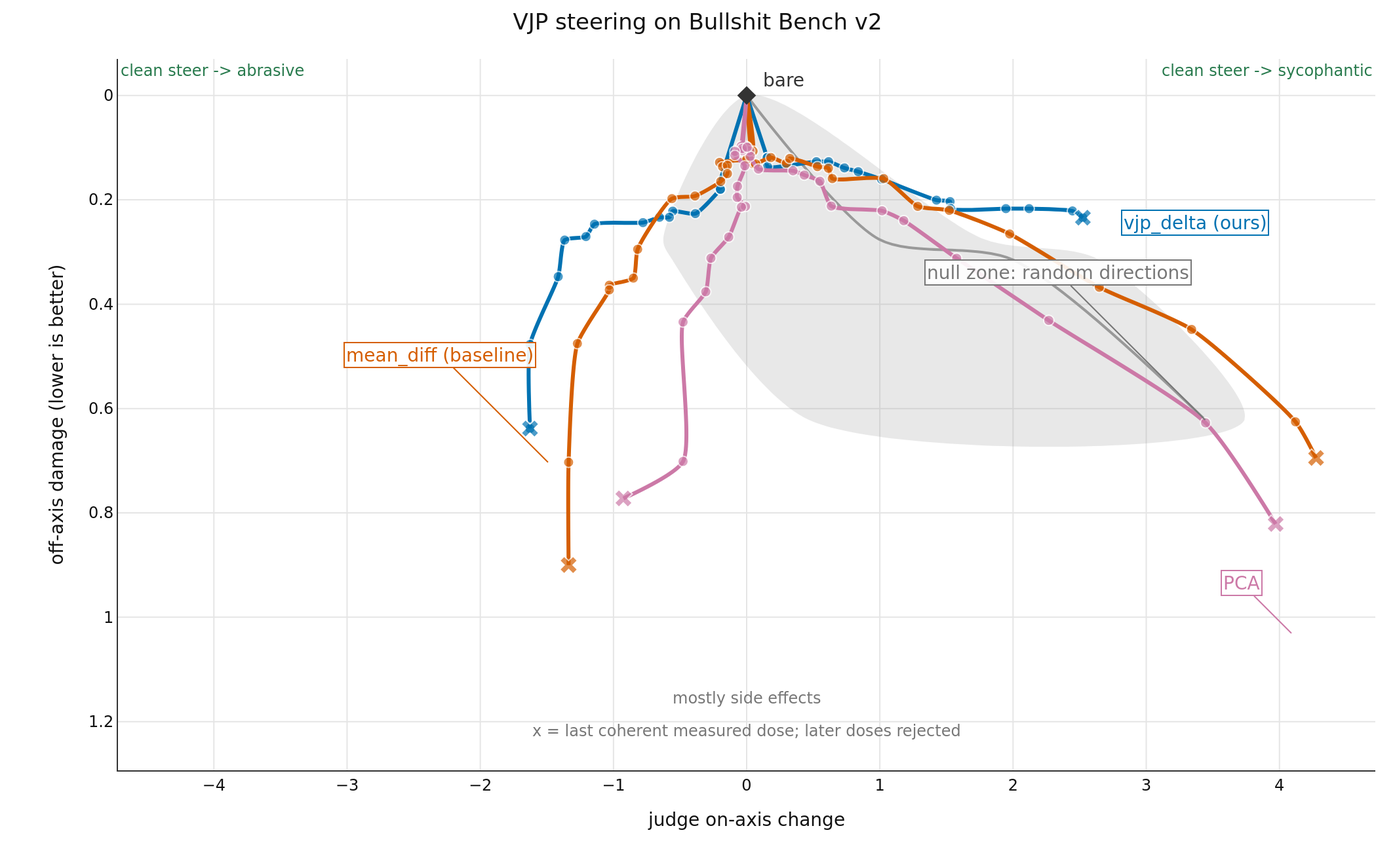
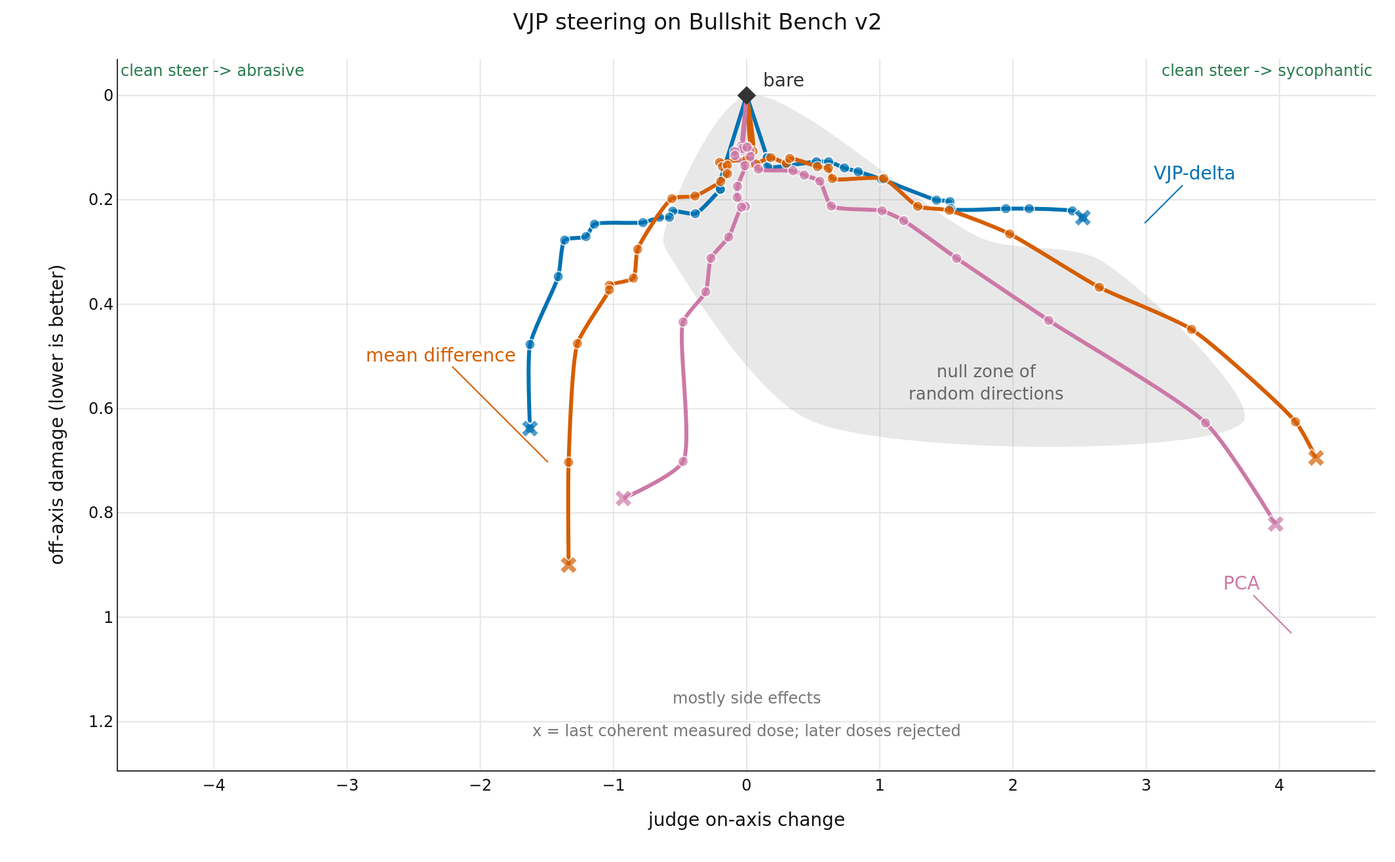
results: label the random null zone directly

diff --git a/results.html b/results.html
@@ -1,2 +1,2 @@
 <!doctype html><meta charset='utf-8'><title>vjp-steering results</title><style>body{font:16px system-ui;max-width:900px;margin:2rem auto}table{border-collapse:collapse}th,td{padding:.35rem .7rem;border-bottom:1px solid #ccc}th{text-align:left}img{max-width:100%}</style><h1>Results</h1><p>All rows use the same all-100 evaluation cohort. Named-method points are means over three seeds. The figure shows both steering directions. The random cone shows ten vectors until fewer than half have two coherent arms. The table reports rejected arms.</p><div style="height:658px; width:1064px;">                        <script>window.PlotlyConfig = {MathJaxConfig: 'local'};</script>
-        <script charset="utf-8" src="https://cdn.plot.ly/plotly-3.7.0.min.js" integrity="sha256-jvTGqxNp8AGWEcvNLVuKr+8j5dGe9Yw51LQkmDH+IYA=" crossorigin="anonymous"></script>                <div id="324a76bb-794a-489f-af0a-ff53a93f7f07" class="plotly-graph-div" style="height:100%; width:100%;"></div>            <script>                window.PLOTLYENV=window.PLOTLYENV || {};                                if (document.getElementById("324a76bb-794a-489f-af0a-ff53a93f7f07")) {                    Plotly.newPlot(                        "324a76bb-794a-489f-af0a-ff53a93f7f07",                        [{"fill":"toself","fillcolor":"rgba(150,150,150,0.22)","hoverinfo":"skip","line":{"color":"rgba(150,150,150,0)","shape":"spline","smoothing":0.8,"width":0},"showlegend":false,"x":[0.0,-0.62575,-0.558,0.46725,3.73775,2.65025,1.7845,0.0],"y":[0.0,0.2755,0.315,0.621625,0.621625,0.315,0.2755,0.0],"type":"scatter"},{"hoverinfo":"skip","line":{"color":"#999999","shape":"spline","smoothing":0.8,"width":2},"mode":"lines","showlegend":false,"x":[0.0,0.0,0.9933749999999999,1.999,3.44175],"y":[0.0,0.0,0.2755,0.315,0.621625],"type":"scatter"},{"hovertemplate":"vjp_delta (ours)\u003cbr\u003e%{text}\u003cbr\u003eeffect=%{x:.3f}\u003cbr\u003edamage=%{y:.3f}\u003cextra\u003e\u003c\u002fextra\u003e","line":{"color":"#0072b2","shape":"spline","smoothing":0.6,"width":3},"marker":{"color":"#0072b2","size":[0,8,8,8,8,8,8,8,8,8,8,8,8,8,8,8,12],"symbol":["circle","circle","circle","circle","circle","circle","circle","circle","circle","circle","circle","circle","circle","circle","circle","circle","x"]},"mode":"lines+markers","showlegend":false,"text":["bare","C=0.03125","C=0.0350769","C=0.0393725","C=0.0496063","C=0.0556812","C=0.0625","C=0.0701539","C=0.0787451","C=0.0992126","C=0.111362","C=0.125","C=0.140308","C=0.15749","C=0.198425","C=0.222725","C=0.25"],"x":[0,0.15408333333333332,0.15408333333333332,0.15683333333333332,0.523505,0.61525,0.734195,0.8376666666666667,1.01255,1.42525,1.5273333333333334,1.5313916666666667,1.9463333333333332,2.120833333333333,2.446108333333333,2.52425,2.52425],"y":[0,0.11908333333333333,0.11908333333333333,0.13625,0.12689166666666668,0.12689166666666668,0.138825,0.14605833333333335,0.16058333333333333,0.20058333333333334,0.20333333333333334,0.21683333333333332,0.21683333333333332,0.21683333333333332,0.22125,0.23416666666666666,0.23416666666666666],"type":"scatter"},{"hovertemplate":"vjp_delta (ours)\u003cbr\u003e%{text}\u003cbr\u003eeffect=%{x:.3f}\u003cbr\u003edamage=%{y:.3f}\u003cextra\u003e\u003c\u002fextra\u003e","line":{"color":"#0072b2","shape":"spline","smoothing":0.6,"width":3},"marker":{"color":"#0072b2","size":[0,8,8,8,8,8,8,8,8,8,8,8,8,8,8,8,12],"symbol":["circle","circle","circle","circle","circle","circle","circle","circle","circle","circle","circle","circle","circle","circle","circle","circle","x"]},"mode":"lines+markers","showlegend":false,"text":["bare","C=0.03125","C=0.0350769","C=0.0393725","C=0.0441942","C=0.0556812","C=0.0625","C=0.0701539","C=0.0787451","C=0.0883883","C=0.0992126","C=0.111362","C=0.125","C=0.15749","C=0.176777","C=0.198425","C=0.222725"],"x":[0,-0.21149999999999997,-0.21149999999999997,-0.19706166666666666,-0.19706166666666666,-0.38541666666666663,-0.5555,-0.5802475,-0.6541825,-0.7786916666666667,-1.1425916666666667,-1.2064459166666666,-1.3664367499999999,-1.4146759258333332,-1.6265833333333333,-1.6265833333333333,-1.6265833333333333],"y":[0,0.17399916666666668,0.17399916666666668,0.17980000000000002,0.17980000000000002,0.22644166666666665,0.22171083333333333,0.2334416666666667,0.2334416666666667,0.24366666666666667,0.24663333333333334,0.270425,0.27708333333333335,0.3471666666666667,0.4771666666666667,0.63825,0.63825],"type":"scatter"},{"hovertemplate":"mean_diff (baseline)\u003cbr\u003e%{text}\u003cbr\u003eeffect=%{x:.3f}\u003cbr\u003edamage=%{y:.3f}\u003cextra\u003e\u003c\u002fextra\u003e","line":{"color":"#d55e00","shape":"spline","smoothing":0.6,"width":3},"marker":{"color":"#d55e00","size":[0,8,8,8,8,8,8,8,8,8,8,8,8,8,8,8,12],"symbol":["circle","circle","circle","circle","circle","circle","circle","circle","circle","circle","circle","circle","circle","circle","circle","circle","x"]},"mode":"lines+markers","showlegend":false,"text":["bare","C=0.03125","C=0.0393725","C=0.0496063","C=0.0625","C=0.0787451","C=0.0992126","C=0.125","C=0.15749","C=0.198425","C=0.25","C=0.31498","C=0.39685","C=0.5","C=0.629961","C=0.793701","C=1"],"x":[0,0.04861,0.06719373583333334,0.18175,0.29885999999999996,0.3235,0.5315,0.61375,0.643,1.0288416666666667,1.2845833333333334,1.5210833333333333,1.9748333333333332,2.6473333333333335,3.3405,4.120416666666666,4.27475],"y":[0,0.131,0.131,0.119,0.12999166666666667,0.120625,0.13633333333333333,0.1395,0.15925,0.15925,0.21252916666666666,0.22025,0.26541666666666663,0.3675833333333333,0.44833333333333336,0.6254166666666666,0.6946666666666667],"type":"scatter"},{"hovertemplate":"mean_diff (baseline)\u003cbr\u003e%{text}\u003cbr\u003eeffect=%{x:.3f}\u003cbr\u003edamage=%{y:.3f}\u003cextra\u003e\u003c\u002fextra\u003e","line":{"color":"#d55e00","shape":"spline","smoothing":0.6,"width":3},"marker":{"color":"#d55e00","size":[0,8,8,8,8,8,8,8,8,8,8,8,8,8,8,8,12],"symbol":["circle","circle","circle","circle","circle","circle","circle","circle","circle","circle","circle","circle","circle","circle","circle","circle","x"]},"mode":"lines+markers","showlegend":false,"text":["bare","C=0.03125","C=0.0393725","C=0.0496063","C=0.0625","C=0.0701539","C=0.0883883","C=0.111362","C=0.140308","C=0.176777","C=0.222725","C=0.280616","C=0.353553","C=0.39685","C=0.5","C=0.629961","C=0.793701"],"x":[0,0.04816666666666667,0.001833333333333328,-0.20354166666666668,-0.180925,-0.14454166666666668,-0.14454166666666668,-0.1947475,-0.38816416666666664,-0.5611666666666667,-0.8184166666666667,-0.8505,-1.0310833333333334,-1.0310833333333334,-1.2709166666666667,-1.3367499999999999,-1.3367499999999999],"y":[0,0.10666666666666667,0.12155,0.12821041666666666,0.1366666666666667,0.13399166666666668,0.14983333333333332,0.16475,0.19266666666666665,0.197675,0.29478333333333334,0.3500416666666667,0.36362500000000003,0.3726666666666667,0.4755,0.7029166666666666,0.9],"type":"scatter"},{"hovertemplate":"PCA\u003cbr\u003e%{text}\u003cbr\u003eeffect=%{x:.3f}\u003cbr\u003edamage=%{y:.3f}\u003cextra\u003e\u003c\u002fextra\u003e","line":{"color":"#cc79a7","shape":"spline","smoothing":0.6,"width":3},"marker":{"color":"#cc79a7","size":[0,8,8,8,8,8,8,8,8,8,8,8,8,8,8,8,12],"symbol":["circle","circle","circle","circle","circle","circle","circle","circle","circle","circle","circle","circle","circle","circle","circle","circle","x"]},"mode":"lines+markers","showlegend":false,"text":["bare","C=0.03125","C=0.0393725","C=0.0496063","C=0.0625","C=0.0787451","C=0.0992126","C=0.125","C=0.15749","C=0.222725","C=0.280616","C=0.353553","C=0.445449","C=0.561231","C=0.707107","C=0.890899","C=1.12246"],"x":[0,-0.04175,-0.04175,-0.006111666666666677,0.022609999999999984,0.02697166666666666,0.08833333333333332,0.34808333333333336,0.4325833333333334,0.55,0.6351666666666667,1.01675,1.1796083333333334,1.5768333333333333,2.268333333333333,3.4454166666666666,3.97175],"y":[0,0.10181704333333333,0.09730075333333334,0.09730075333333334,0.106125,0.11654166666666667,0.141,0.14433333333333334,0.15258333333333335,0.16439166666666666,0.21191666666666667,0.221,0.23991666666666667,0.3120833333333334,0.4310833333333333,0.6274166666666666,0.8212499999999999],"type":"scatter"},{"hovertemplate":"PCA\u003cbr\u003e%{text}\u003cbr\u003eeffect=%{x:.3f}\u003cbr\u003edamage=%{y:.3f}\u003cextra\u003e\u003c\u002fextra\u003e","line":{"color":"#cc79a7","shape":"spline","smoothing":0.6,"width":3},"marker":{"color":"#cc79a7","size":[0,8,8,8,8,8,8,8,8,8,8,8,8,8,8,8,12],"symbol":["circle","circle","circle","circle","circle","circle","circle","circle","circle","circle","circle","circle","circle","circle","circle","circle","x"]},"mode":"lines+markers","showlegend":false,"text":["bare","C=0.03125","C=0.0393725","C=0.0496063","C=0.0625","C=0.0701539","C=0.0883883","C=0.111362","C=0.140308","C=0.176777","C=0.222725","C=0.280616","C=0.353553","C=0.39685","C=0.5","C=0.629961","C=0.793701"],"x":[0,-0.03247500000000001,-0.03247500000000001,0.003671500000000007,-0.08820441666666666,-0.08820441666666666,-0.013758499999999993,-0.06905833333333332,-0.07075,-0.008969166666666672,-0.03958333333333335,-0.13466666666666666,-0.268575,-0.3070833333333333,-0.4775,-0.4775,-0.9255833333333334],"y":[0,0.10563333333333333,0.10164166666666667,0.09928333333333333,0.10703333333333334,0.11488333333333334,0.13475,0.17416666666666666,0.19533333333333333,0.21266666666666667,0.21400833333333333,0.27134166666666665,0.3118416666666667,0.37617500000000004,0.4341666666666667,0.7013333333333334,0.77225],"type":"scatter"},{"hoverinfo":"skip","marker":{"color":"#333333","size":11,"symbol":"diamond"},"mode":"markers","showlegend":false,"x":[0],"y":[0],"type":"scatter"}],                        {"template":{"data":{"histogram2dcontour":[{"type":"histogram2dcontour","colorbar":{"outlinewidth":0,"ticks":""},"colorscale":[[0.0,"#0d0887"],[0.1111111111111111,"#46039f"],[0.2222222222222222,"#7201a8"],[0.3333333333333333,"#9c179e"],[0.4444444444444444,"#bd3786"],[0.5555555555555556,"#d8576b"],[0.6666666666666666,"#ed7953"],[0.7777777777777778,"#fb9f3a"],[0.8888888888888888,"#fdca26"],[1.0,"#f0f921"]]}],"choropleth":[{"type":"choropleth","colorbar":{"outlinewidth":0,"ticks":""}}],"histogram2d":[{"type":"histogram2d","colorbar":{"outlinewidth":0,"ticks":""},"colorscale":[[0.0,"#0d0887"],[0.1111111111111111,"#46039f"],[0.2222222222222222,"#7201a8"],[0.3333333333333333,"#9c179e"],[0.4444444444444444,"#bd3786"],[0.5555555555555556,"#d8576b"],[0.6666666666666666,"#ed7953"],[0.7777777777777778,"#fb9f3a"],[0.8888888888888888,"#fdca26"],[1.0,"#f0f921"]]}],"heatmap":[{"type":"heatmap","colorbar":{"outlinewidth":0,"ticks":""},"colorscale":[[0.0,"#0d0887"],[0.1111111111111111,"#46039f"],[0.2222222222222222,"#7201a8"],[0.3333333333333333,"#9c179e"],[0.4444444444444444,"#bd3786"],[0.5555555555555556,"#d8576b"],[0.6666666666666666,"#ed7953"],[0.7777777777777778,"#fb9f3a"],[0.8888888888888888,"#fdca26"],[1.0,"#f0f921"]]}],"contourcarpet":[{"type":"contourcarpet","colorbar":{"outlinewidth":0,"ticks":""}}],"contour":[{"type":"contour","colorbar":{"outlinewidth":0,"ticks":""},"colorscale":[[0.0,"#0d0887"],[0.1111111111111111,"#46039f"],[0.2222222222222222,"#7201a8"],[0.3333333333333333,"#9c179e"],[0.4444444444444444,"#bd3786"],[0.5555555555555556,"#d8576b"],[0.6666666666666666,"#ed7953"],[0.7777777777777778,"#fb9f3a"],[0.8888888888888888,"#fdca26"],[1.0,"#f0f921"]]}],"surface":[{"type":"surface","colorbar":{"outlinewidth":0,"ticks":""},"colorscale":[[0.0,"#0d0887"],[0.1111111111111111,"#46039f"],[0.2222222222222222,"#7201a8"],[0.3333333333333333,"#9c179e"],[0.4444444444444444,"#bd3786"],[0.5555555555555556,"#d8576b"],[0.6666666666666666,"#ed7953"],[0.7777777777777778,"#fb9f3a"],[0.8888888888888888,"#fdca26"],[1.0,"#f0f921"]]}],"mesh3d":[{"type":"mesh3d","colorbar":{"outlinewidth":0,"ticks":""}}],"scatter":[{"fillpattern":{"fillmode":"overlay","size":10,"solidity":0.2},"type":"scatter"}],"parcoords":[{"type":"parcoords","line":{"colorbar":{"outlinewidth":0,"ticks":""}}}],"scatterpolargl":[{"type":"scatterpolargl","marker":{"colorbar":{"outlinewidth":0,"ticks":""}}}],"bar":[{"error_x":{"color":"#2a3f5f"},"error_y":{"color":"#2a3f5f"},"marker":{"line":{"color":"#E5ECF6","width":0.5},"pattern":{"fillmode":"overlay","size":10,"solidity":0.2}},"type":"bar"}],"scattergeo":[{"type":"scattergeo","marker":{"colorbar":{"outlinewidth":0,"ticks":""}}}],"scatterpolar":[{"type":"scatterpolar","marker":{"colorbar":{"outlinewidth":0,"ticks":""}}}],"histogram":[{"marker":{"pattern":{"fillmode":"overlay","size":10,"solidity":0.2}},"type":"histogram"}],"scattergl":[{"type":"scattergl","marker":{"colorbar":{"outlinewidth":0,"ticks":""}}}],"scatter3d":[{"type":"scatter3d","line":{"colorbar":{"outlinewidth":0,"ticks":""}},"marker":{"colorbar":{"outlinewidth":0,"ticks":""}}}],"scattermap":[{"type":"scattermap","marker":{"colorbar":{"outlinewidth":0,"ticks":""}}}],"scattermapbox":[{"type":"scattermapbox","marker":{"colorbar":{"outlinewidth":0,"ticks":""}}}],"scatterternary":[{"type":"scatterternary","marker":{"colorbar":{"outlinewidth":0,"ticks":""}}}],"scattercarpet":[{"type":"scattercarpet","marker":{"colorbar":{"outlinewidth":0,"ticks":""}}}],"carpet":[{"aaxis":{"endlinecolor":"#2a3f5f","gridcolor":"white","linecolor":"white","minorgridcolor":"white","startlinecolor":"#2a3f5f"},"baxis":{"endlinecolor":"#2a3f5f","gridcolor":"white","linecolor":"white","minorgridcolor":"white","startlinecolor":"#2a3f5f"},"type":"carpet"}],"table":[{"cells":{"fill":{"color":"#EBF0F8"},"line":{"color":"white"}},"header":{"fill":{"color":"#C8D4E3"},"line":{"color":"white"}},"type":"table"}],"barpolar":[{"marker":{"line":{"color":"#E5ECF6","width":0.5},"pattern":{"fillmode":"overlay","size":10,"solidity":0.2}},"type":"barpolar"}],"pie":[{"automargin":true,"type":"pie"}]},"layout":{"autotypenumbers":"strict","colorway":["#636efa","#EF553B","#00cc96","#ab63fa","#FFA15A","#19d3f3","#FF6692","#B6E880","#FF97FF","#FECB52"],"font":{"color":"#2a3f5f"},"hovermode":"closest","hoverlabel":{"align":"left"},"paper_bgcolor":"white","plot_bgcolor":"#E5ECF6","polar":{"bgcolor":"#E5ECF6","angularaxis":{"gridcolor":"white","linecolor":"white","ticks":""},"radialaxis":{"gridcolor":"white","linecolor":"white","ticks":""}},"ternary":{"bgcolor":"#E5ECF6","aaxis":{"gridcolor":"white","linecolor":"white","ticks":""},"baxis":{"gridcolor":"white","linecolor":"white","ticks":""},"caxis":{"gridcolor":"white","linecolor":"white","ticks":""}},"coloraxis":{"colorbar":{"outlinewidth":0,"ticks":""}},"colorscale":{"sequential":[[0.0,"#0d0887"],[0.1111111111111111,"#46039f"],[0.2222222222222222,"#7201a8"],[0.3333333333333333,"#9c179e"],[0.4444444444444444,"#bd3786"],[0.5555555555555556,"#d8576b"],[0.6666666666666666,"#ed7953"],[0.7777777777777778,"#fb9f3a"],[0.8888888888888888,"#fdca26"],[1.0,"#f0f921"]],"sequentialminus":[[0.0,"#0d0887"],[0.1111111111111111,"#46039f"],[0.2222222222222222,"#7201a8"],[0.3333333333333333,"#9c179e"],[0.4444444444444444,"#bd3786"],[0.5555555555555556,"#d8576b"],[0.6666666666666666,"#ed7953"],[0.7777777777777778,"#fb9f3a"],[0.8888888888888888,"#fdca26"],[1.0,"#f0f921"]],"diverging":[[0,"#8e0152"],[0.1,"#c51b7d"],[0.2,"#de77ae"],[0.3,"#f1b6da"],[0.4,"#fde0ef"],[0.5,"#f7f7f7"],[0.6,"#e6f5d0"],[0.7,"#b8e186"],[0.8,"#7fbc41"],[0.9,"#4d9221"],[1,"#276419"]]},"xaxis":{"gridcolor":"white","linecolor":"white","ticks":"","title":{"standoff":15},"zerolinecolor":"white","automargin":true,"zerolinewidth":2},"yaxis":{"gridcolor":"white","linecolor":"white","ticks":"","title":{"standoff":15},"zerolinecolor":"white","automargin":true,"zerolinewidth":2},"scene":{"xaxis":{"backgroundcolor":"#E5ECF6","gridcolor":"white","linecolor":"white","showbackground":true,"ticks":"","zerolinecolor":"white","gridwidth":2},"yaxis":{"backgroundcolor":"#E5ECF6","gridcolor":"white","linecolor":"white","showbackground":true,"ticks":"","zerolinecolor":"white","gridwidth":2},"zaxis":{"backgroundcolor":"#E5ECF6","gridcolor":"white","linecolor":"white","showbackground":true,"ticks":"","zerolinecolor":"white","gridwidth":2}},"shapedefaults":{"line":{"color":"#2a3f5f"}},"annotationdefaults":{"arrowcolor":"#2a3f5f","arrowhead":0,"arrowwidth":1},"geo":{"bgcolor":"white","landcolor":"#E5ECF6","subunitcolor":"white","showland":true,"showlakes":true,"lakecolor":"white"},"title":{"x":0.05},"mapbox":{"style":"light"}}},"annotations":[{"font":{"color":"#333333","size":14},"showarrow":false,"text":"bare","x":0,"xshift":28,"y":0,"yshift":12},{"arrowcolor":"#cc79a7","arrowhead":0,"arrowwidth":1,"ax":-38,"axref":"pixel","ay":-38,"ayref":"pixel","bgcolor":"rgba(255,255,255,0.9)","bordercolor":"#cc79a7","borderwidth":1,"font":{"color":"#cc79a7","size":14},"showarrow":true,"text":"PCA","x":4.089916666666666,"y":1.0305833333333332},{"arrowcolor":"#d55e00","arrowhead":0,"arrowwidth":1,"ax":-82,"axref":"pixel","ay":-82,"ayref":"pixel","bgcolor":"rgba(255,255,255,0.9)","bordercolor":"#d55e00","borderwidth":1,"font":{"color":"#d55e00","size":14},"showarrow":true,"text":"mean_diff (baseline)","x":-1.4915,"y":0.7029166666666666},{"arrowcolor":"#0072b2","arrowhead":0,"arrowwidth":1,"ax":38,"axref":"pixel","ay":0,"ayref":"pixel","bgcolor":"rgba(255,255,255,0.9)","bordercolor":"#0072b2","borderwidth":1,"font":{"color":"#0072b2","size":14},"showarrow":true,"text":"vjp_delta (ours)","x":2.98775,"y":0.24483333333333332},{"arrowcolor":"#777777","arrowhead":0,"arrowwidth":1,"ax":-112,"axref":"pixel","ay":-112,"ayref":"pixel","bgcolor":"rgba(255,255,255,0.9)","bordercolor":"#777777","borderwidth":1,"font":{"color":"#777777","size":14},"showarrow":true,"text":"null zone: random directions","x":3.44175,"y":0.621625},{"font":{"color":"#287a4d","size":12},"showarrow":false,"text":"clean steer -\u003e abrasive","x":0,"xanchor":"left","xref":"paper","y":1,"yref":"paper"},{"font":{"color":"#287a4d","size":12},"showarrow":false,"text":"clean steer -\u003e sycophantic","x":1,"xanchor":"right","xref":"paper","y":1,"yref":"paper"},{"font":{"color":"#777777","size":12},"showarrow":false,"text":"mostly side effects","x":0.5,"xref":"paper","y":0,"yref":"paper","yshift":46},{"font":{"color":"#777777","size":12},"showarrow":false,"text":"x = last coherent measured dose; later doses rejected","x":0.5,"xref":"paper","y":0,"yref":"paper","yshift":21}],"title":{"text":"VJP steering on Bullshit Bench v2","x":0.5,"xanchor":"center"},"margin":{"l":90,"r":15,"t":45,"b":70},"font":{"color":"#111"},"xaxis":{"title":{"text":"judge on-axis change"},"range":[-4.7198979,4.7198979],"showline":true,"linecolor":"#333333","gridcolor":"#e5e5e5","zeroline":false},"yaxis":{"title":{"text":"off-axis damage (lower is better)"},"range":[1.2933000000000001,-0.07],"showline":true,"linecolor":"#333333","gridcolor":"#e5e5e5","zeroline":false},"width":1064,"height":658,"plot_bgcolor":"white","paper_bgcolor":"white","showlegend":false},                        {"responsive": true}                    )                };            </script>        </div><table><thead><tr><th>method</th><th>steer dir</th><th>seeds</th><th>arms</th><th>rejected</th><th>peak on-axis</th><th>damage at peak</th></tr></thead><tbody><tr><td>vjp_delta</td><td>-C</td><td>3</td><td>18</td><td>10</td><td>-1.849</td><td>0.477</td></tr><tr><td>vjp_delta</td><td>+C</td><td>3</td><td>19</td><td>0</td><td>+2.988</td><td>0.245</td></tr><tr><td>mean_diff</td><td>-C</td><td>3</td><td>29</td><td>15</td><td>-1.492</td><td>0.703</td></tr><tr><td>mean_diff</td><td>+C</td><td>3</td><td>31</td><td>9</td><td>+4.370</td><td>0.695</td></tr><tr><td>pca</td><td>-C</td><td>3</td><td>29</td><td>24</td><td>-1.227</td><td>0.963</td></tr><tr><td>pca</td><td>+C</td><td>3</td><td>32</td><td>15</td><td>+4.090</td><td>1.031</td></tr><tr><td>random</td><td>-C</td><td>10</td><td>30</td><td>4</td><td>+4.075</td><td>0.724</td></tr><tr><td>random</td><td>+C</td><td>10</td><td>30</td><td>1</td><td>+3.851</td><td>0.470</td></tr></tbody></table>
+        <script charset="utf-8" src="https://cdn.plot.ly/plotly-3.7.0.min.js" integrity="sha256-jvTGqxNp8AGWEcvNLVuKr+8j5dGe9Yw51LQkmDH+IYA=" crossorigin="anonymous"></script>                <div id="f2ab3875-6ba5-45a1-86d4-25c713258a6b" class="plotly-graph-div" style="height:100%; width:100%;"></div>            <script>                window.PLOTLYENV=window.PLOTLYENV || {};                                if (document.getElementById("f2ab3875-6ba5-45a1-86d4-25c713258a6b")) {                    Plotly.newPlot(                        "f2ab3875-6ba5-45a1-86d4-25c713258a6b",                        [{"fill":"toself","fillcolor":"rgba(150,150,150,0.22)","hoverinfo":"skip","line":{"color":"rgba(150,150,150,0)","shape":"spline","smoothing":0.8,"width":0},"showlegend":false,"x":[0.0,-0.62575,-0.558,0.46725,3.73775,2.65025,1.7845,0.0],"y":[0.0,0.2755,0.315,0.621625,0.621625,0.315,0.2755,0.0],"type":"scatter"},{"hovertemplate":"vjp_delta (ours)\u003cbr\u003e%{text}\u003cbr\u003eeffect=%{x:.3f}\u003cbr\u003edamage=%{y:.3f}\u003cextra\u003e\u003c\u002fextra\u003e","line":{"color":"#0072b2","shape":"spline","smoothing":0.6,"width":3},"marker":{"color":"#0072b2","size":[0,8,8,8,8,8,8,8,8,8,8,8,8,8,8,8,12],"symbol":["circle","circle","circle","circle","circle","circle","circle","circle","circle","circle","circle","circle","circle","circle","circle","circle","x"]},"mode":"lines+markers","showlegend":false,"text":["bare","C=0.03125","C=0.0350769","C=0.0393725","C=0.0496063","C=0.0556812","C=0.0625","C=0.0701539","C=0.0787451","C=0.0992126","C=0.111362","C=0.125","C=0.140308","C=0.15749","C=0.198425","C=0.222725","C=0.25"],"x":[0,0.15408333333333332,0.15408333333333332,0.15683333333333332,0.523505,0.61525,0.734195,0.8376666666666667,1.01255,1.42525,1.5273333333333334,1.5313916666666667,1.9463333333333332,2.120833333333333,2.446108333333333,2.52425,2.52425],"y":[0,0.11908333333333333,0.11908333333333333,0.13625,0.12689166666666668,0.12689166666666668,0.138825,0.14605833333333335,0.16058333333333333,0.20058333333333334,0.20333333333333334,0.21683333333333332,0.21683333333333332,0.21683333333333332,0.22125,0.23416666666666666,0.23416666666666666],"type":"scatter"},{"hovertemplate":"vjp_delta (ours)\u003cbr\u003e%{text}\u003cbr\u003eeffect=%{x:.3f}\u003cbr\u003edamage=%{y:.3f}\u003cextra\u003e\u003c\u002fextra\u003e","line":{"color":"#0072b2","shape":"spline","smoothing":0.6,"width":3},"marker":{"color":"#0072b2","size":[0,8,8,8,8,8,8,8,8,8,8,8,8,8,8,8,12],"symbol":["circle","circle","circle","circle","circle","circle","circle","circle","circle","circle","circle","circle","circle","circle","circle","circle","x"]},"mode":"lines+markers","showlegend":false,"text":["bare","C=0.03125","C=0.0350769","C=0.0393725","C=0.0441942","C=0.0556812","C=0.0625","C=0.0701539","C=0.0787451","C=0.0883883","C=0.0992126","C=0.111362","C=0.125","C=0.15749","C=0.176777","C=0.198425","C=0.222725"],"x":[0,-0.21149999999999997,-0.21149999999999997,-0.19706166666666666,-0.19706166666666666,-0.38541666666666663,-0.5555,-0.5802475,-0.6541825,-0.7786916666666667,-1.1425916666666667,-1.2064459166666666,-1.3664367499999999,-1.4146759258333332,-1.6265833333333333,-1.6265833333333333,-1.6265833333333333],"y":[0,0.17399916666666668,0.17399916666666668,0.17980000000000002,0.17980000000000002,0.22644166666666665,0.22171083333333333,0.2334416666666667,0.2334416666666667,0.24366666666666667,0.24663333333333334,0.270425,0.27708333333333335,0.3471666666666667,0.4771666666666667,0.63825,0.63825],"type":"scatter"},{"hovertemplate":"mean_diff (baseline)\u003cbr\u003e%{text}\u003cbr\u003eeffect=%{x:.3f}\u003cbr\u003edamage=%{y:.3f}\u003cextra\u003e\u003c\u002fextra\u003e","line":{"color":"#d55e00","shape":"spline","smoothing":0.6,"width":3},"marker":{"color":"#d55e00","size":[0,8,8,8,8,8,8,8,8,8,8,8,8,8,8,8,12],"symbol":["circle","circle","circle","circle","circle","circle","circle","circle","circle","circle","circle","circle","circle","circle","circle","circle","x"]},"mode":"lines+markers","showlegend":false,"text":["bare","C=0.03125","C=0.0393725","C=0.0496063","C=0.0625","C=0.0787451","C=0.0992126","C=0.125","C=0.15749","C=0.198425","C=0.25","C=0.31498","C=0.39685","C=0.5","C=0.629961","C=0.793701","C=1"],"x":[0,0.04861,0.06719373583333334,0.18175,0.29885999999999996,0.3235,0.5315,0.61375,0.643,1.0288416666666667,1.2845833333333334,1.5210833333333333,1.9748333333333332,2.6473333333333335,3.3405,4.120416666666666,4.27475],"y":[0,0.131,0.131,0.119,0.12999166666666667,0.120625,0.13633333333333333,0.1395,0.15925,0.15925,0.21252916666666666,0.22025,0.26541666666666663,0.3675833333333333,0.44833333333333336,0.6254166666666666,0.6946666666666667],"type":"scatter"},{"hovertemplate":"mean_diff (baseline)\u003cbr\u003e%{text}\u003cbr\u003eeffect=%{x:.3f}\u003cbr\u003edamage=%{y:.3f}\u003cextra\u003e\u003c\u002fextra\u003e","line":{"color":"#d55e00","shape":"spline","smoothing":0.6,"width":3},"marker":{"color":"#d55e00","size":[0,8,8,8,8,8,8,8,8,8,8,8,8,8,8,8,12],"symbol":["circle","circle","circle","circle","circle","circle","circle","circle","circle","circle","circle","circle","circle","circle","circle","circle","x"]},"mode":"lines+markers","showlegend":false,"text":["bare","C=0.03125","C=0.0393725","C=0.0496063","C=0.0625","C=0.0701539","C=0.0883883","C=0.111362","C=0.140308","C=0.176777","C=0.222725","C=0.280616","C=0.353553","C=0.39685","C=0.5","C=0.629961","C=0.793701"],"x":[0,0.04816666666666667,0.001833333333333328,-0.20354166666666668,-0.180925,-0.14454166666666668,-0.14454166666666668,-0.1947475,-0.38816416666666664,-0.5611666666666667,-0.8184166666666667,-0.8505,-1.0310833333333334,-1.0310833333333334,-1.2709166666666667,-1.3367499999999999,-1.3367499999999999],"y":[0,0.10666666666666667,0.12155,0.12821041666666666,0.1366666666666667,0.13399166666666668,0.14983333333333332,0.16475,0.19266666666666665,0.197675,0.29478333333333334,0.3500416666666667,0.36362500000000003,0.3726666666666667,0.4755,0.7029166666666666,0.9],"type":"scatter"},{"hovertemplate":"PCA\u003cbr\u003e%{text}\u003cbr\u003eeffect=%{x:.3f}\u003cbr\u003edamage=%{y:.3f}\u003cextra\u003e\u003c\u002fextra\u003e","line":{"color":"#cc79a7","shape":"spline","smoothing":0.6,"width":3},"marker":{"color":"#cc79a7","size":[0,8,8,8,8,8,8,8,8,8,8,8,8,8,8,8,12],"symbol":["circle","circle","circle","circle","circle","circle","circle","circle","circle","circle","circle","circle","circle","circle","circle","circle","x"]},"mode":"lines+markers","showlegend":false,"text":["bare","C=0.03125","C=0.0393725","C=0.0496063","C=0.0625","C=0.0787451","C=0.0992126","C=0.125","C=0.15749","C=0.222725","C=0.280616","C=0.353553","C=0.445449","C=0.561231","C=0.707107","C=0.890899","C=1.12246"],"x":[0,-0.04175,-0.04175,-0.006111666666666677,0.022609999999999984,0.02697166666666666,0.08833333333333332,0.34808333333333336,0.4325833333333334,0.55,0.6351666666666667,1.01675,1.1796083333333334,1.5768333333333333,2.268333333333333,3.4454166666666666,3.97175],"y":[0,0.10181704333333333,0.09730075333333334,0.09730075333333334,0.106125,0.11654166666666667,0.141,0.14433333333333334,0.15258333333333335,0.16439166666666666,0.21191666666666667,0.221,0.23991666666666667,0.3120833333333334,0.4310833333333333,0.6274166666666666,0.8212499999999999],"type":"scatter"},{"hovertemplate":"PCA\u003cbr\u003e%{text}\u003cbr\u003eeffect=%{x:.3f}\u003cbr\u003edamage=%{y:.3f}\u003cextra\u003e\u003c\u002fextra\u003e","line":{"color":"#cc79a7","shape":"spline","smoothing":0.6,"width":3},"marker":{"color":"#cc79a7","size":[0,8,8,8,8,8,8,8,8,8,8,8,8,8,8,8,12],"symbol":["circle","circle","circle","circle","circle","circle","circle","circle","circle","circle","circle","circle","circle","circle","circle","circle","x"]},"mode":"lines+markers","showlegend":false,"text":["bare","C=0.03125","C=0.0393725","C=0.0496063","C=0.0625","C=0.0701539","C=0.0883883","C=0.111362","C=0.140308","C=0.176777","C=0.222725","C=0.280616","C=0.353553","C=0.39685","C=0.5","C=0.629961","C=0.793701"],"x":[0,-0.03247500000000001,-0.03247500000000001,0.003671500000000007,-0.08820441666666666,-0.08820441666666666,-0.013758499999999993,-0.06905833333333332,-0.07075,-0.008969166666666672,-0.03958333333333335,-0.13466666666666666,-0.268575,-0.3070833333333333,-0.4775,-0.4775,-0.9255833333333334],"y":[0,0.10563333333333333,0.10164166666666667,0.09928333333333333,0.10703333333333334,0.11488333333333334,0.13475,0.17416666666666666,0.19533333333333333,0.21266666666666667,0.21400833333333333,0.27134166666666665,0.3118416666666667,0.37617500000000004,0.4341666666666667,0.7013333333333334,0.77225],"type":"scatter"},{"hoverinfo":"skip","marker":{"color":"#333333","size":11,"symbol":"diamond"},"mode":"markers","showlegend":false,"x":[0],"y":[0],"type":"scatter"}],                        {"template":{"data":{"histogram2dcontour":[{"type":"histogram2dcontour","colorbar":{"outlinewidth":0,"ticks":""},"colorscale":[[0.0,"#0d0887"],[0.1111111111111111,"#46039f"],[0.2222222222222222,"#7201a8"],[0.3333333333333333,"#9c179e"],[0.4444444444444444,"#bd3786"],[0.5555555555555556,"#d8576b"],[0.6666666666666666,"#ed7953"],[0.7777777777777778,"#fb9f3a"],[0.8888888888888888,"#fdca26"],[1.0,"#f0f921"]]}],"choropleth":[{"type":"choropleth","colorbar":{"outlinewidth":0,"ticks":""}}],"histogram2d":[{"type":"histogram2d","colorbar":{"outlinewidth":0,"ticks":""},"colorscale":[[0.0,"#0d0887"],[0.1111111111111111,"#46039f"],[0.2222222222222222,"#7201a8"],[0.3333333333333333,"#9c179e"],[0.4444444444444444,"#bd3786"],[0.5555555555555556,"#d8576b"],[0.6666666666666666,"#ed7953"],[0.7777777777777778,"#fb9f3a"],[0.8888888888888888,"#fdca26"],[1.0,"#f0f921"]]}],"heatmap":[{"type":"heatmap","colorbar":{"outlinewidth":0,"ticks":""},"colorscale":[[0.0,"#0d0887"],[0.1111111111111111,"#46039f"],[0.2222222222222222,"#7201a8"],[0.3333333333333333,"#9c179e"],[0.4444444444444444,"#bd3786"],[0.5555555555555556,"#d8576b"],[0.6666666666666666,"#ed7953"],[0.7777777777777778,"#fb9f3a"],[0.8888888888888888,"#fdca26"],[1.0,"#f0f921"]]}],"contourcarpet":[{"type":"contourcarpet","colorbar":{"outlinewidth":0,"ticks":""}}],"contour":[{"type":"contour","colorbar":{"outlinewidth":0,"ticks":""},"colorscale":[[0.0,"#0d0887"],[0.1111111111111111,"#46039f"],[0.2222222222222222,"#7201a8"],[0.3333333333333333,"#9c179e"],[0.4444444444444444,"#bd3786"],[0.5555555555555556,"#d8576b"],[0.6666666666666666,"#ed7953"],[0.7777777777777778,"#fb9f3a"],[0.8888888888888888,"#fdca26"],[1.0,"#f0f921"]]}],"surface":[{"type":"surface","colorbar":{"outlinewidth":0,"ticks":""},"colorscale":[[0.0,"#0d0887"],[0.1111111111111111,"#46039f"],[0.2222222222222222,"#7201a8"],[0.3333333333333333,"#9c179e"],[0.4444444444444444,"#bd3786"],[0.5555555555555556,"#d8576b"],[0.6666666666666666,"#ed7953"],[0.7777777777777778,"#fb9f3a"],[0.8888888888888888,"#fdca26"],[1.0,"#f0f921"]]}],"mesh3d":[{"type":"mesh3d","colorbar":{"outlinewidth":0,"ticks":""}}],"scatter":[{"fillpattern":{"fillmode":"overlay","size":10,"solidity":0.2},"type":"scatter"}],"parcoords":[{"type":"parcoords","line":{"colorbar":{"outlinewidth":0,"ticks":""}}}],"scatterpolargl":[{"type":"scatterpolargl","marker":{"colorbar":{"outlinewidth":0,"ticks":""}}}],"bar":[{"error_x":{"color":"#2a3f5f"},"error_y":{"color":"#2a3f5f"},"marker":{"line":{"color":"#E5ECF6","width":0.5},"pattern":{"fillmode":"overlay","size":10,"solidity":0.2}},"type":"bar"}],"scattergeo":[{"type":"scattergeo","marker":{"colorbar":{"outlinewidth":0,"ticks":""}}}],"scatterpolar":[{"type":"scatterpolar","marker":{"colorbar":{"outlinewidth":0,"ticks":""}}}],"histogram":[{"marker":{"pattern":{"fillmode":"overlay","size":10,"solidity":0.2}},"type":"histogram"}],"scattergl":[{"type":"scattergl","marker":{"colorbar":{"outlinewidth":0,"ticks":""}}}],"scatter3d":[{"type":"scatter3d","line":{"colorbar":{"outlinewidth":0,"ticks":""}},"marker":{"colorbar":{"outlinewidth":0,"ticks":""}}}],"scattermap":[{"type":"scattermap","marker":{"colorbar":{"outlinewidth":0,"ticks":""}}}],"scattermapbox":[{"type":"scattermapbox","marker":{"colorbar":{"outlinewidth":0,"ticks":""}}}],"scatterternary":[{"type":"scatterternary","marker":{"colorbar":{"outlinewidth":0,"ticks":""}}}],"scattercarpet":[{"type":"scattercarpet","marker":{"colorbar":{"outlinewidth":0,"ticks":""}}}],"carpet":[{"aaxis":{"endlinecolor":"#2a3f5f","gridcolor":"white","linecolor":"white","minorgridcolor":"white","startlinecolor":"#2a3f5f"},"baxis":{"endlinecolor":"#2a3f5f","gridcolor":"white","linecolor":"white","minorgridcolor":"white","startlinecolor":"#2a3f5f"},"type":"carpet"}],"table":[{"cells":{"fill":{"color":"#EBF0F8"},"line":{"color":"white"}},"header":{"fill":{"color":"#C8D4E3"},"line":{"color":"white"}},"type":"table"}],"barpolar":[{"marker":{"line":{"color":"#E5ECF6","width":0.5},"pattern":{"fillmode":"overlay","size":10,"solidity":0.2}},"type":"barpolar"}],"pie":[{"automargin":true,"type":"pie"}]},"layout":{"autotypenumbers":"strict","colorway":["#636efa","#EF553B","#00cc96","#ab63fa","#FFA15A","#19d3f3","#FF6692","#B6E880","#FF97FF","#FECB52"],"font":{"color":"#2a3f5f"},"hovermode":"closest","hoverlabel":{"align":"left"},"paper_bgcolor":"white","plot_bgcolor":"#E5ECF6","polar":{"bgcolor":"#E5ECF6","angularaxis":{"gridcolor":"white","linecolor":"white","ticks":""},"radialaxis":{"gridcolor":"white","linecolor":"white","ticks":""}},"ternary":{"bgcolor":"#E5ECF6","aaxis":{"gridcolor":"white","linecolor":"white","ticks":""},"baxis":{"gridcolor":"white","linecolor":"white","ticks":""},"caxis":{"gridcolor":"white","linecolor":"white","ticks":""}},"coloraxis":{"colorbar":{"outlinewidth":0,"ticks":""}},"colorscale":{"sequential":[[0.0,"#0d0887"],[0.1111111111111111,"#46039f"],[0.2222222222222222,"#7201a8"],[0.3333333333333333,"#9c179e"],[0.4444444444444444,"#bd3786"],[0.5555555555555556,"#d8576b"],[0.6666666666666666,"#ed7953"],[0.7777777777777778,"#fb9f3a"],[0.8888888888888888,"#fdca26"],[1.0,"#f0f921"]],"sequentialminus":[[0.0,"#0d0887"],[0.1111111111111111,"#46039f"],[0.2222222222222222,"#7201a8"],[0.3333333333333333,"#9c179e"],[0.4444444444444444,"#bd3786"],[0.5555555555555556,"#d8576b"],[0.6666666666666666,"#ed7953"],[0.7777777777777778,"#fb9f3a"],[0.8888888888888888,"#fdca26"],[1.0,"#f0f921"]],"diverging":[[0,"#8e0152"],[0.1,"#c51b7d"],[0.2,"#de77ae"],[0.3,"#f1b6da"],[0.4,"#fde0ef"],[0.5,"#f7f7f7"],[0.6,"#e6f5d0"],[0.7,"#b8e186"],[0.8,"#7fbc41"],[0.9,"#4d9221"],[1,"#276419"]]},"xaxis":{"gridcolor":"white","linecolor":"white","ticks":"","title":{"standoff":15},"zerolinecolor":"white","automargin":true,"zerolinewidth":2},"yaxis":{"gridcolor":"white","linecolor":"white","ticks":"","title":{"standoff":15},"zerolinecolor":"white","automargin":true,"zerolinewidth":2},"scene":{"xaxis":{"backgroundcolor":"#E5ECF6","gridcolor":"white","linecolor":"white","showbackground":true,"ticks":"","zerolinecolor":"white","gridwidth":2},"yaxis":{"backgroundcolor":"#E5ECF6","gridcolor":"white","linecolor":"white","showbackground":true,"ticks":"","zerolinecolor":"white","gridwidth":2},"zaxis":{"backgroundcolor":"#E5ECF6","gridcolor":"white","linecolor":"white","showbackground":true,"ticks":"","zerolinecolor":"white","gridwidth":2}},"shapedefaults":{"line":{"color":"#2a3f5f"}},"annotationdefaults":{"arrowcolor":"#2a3f5f","arrowhead":0,"arrowwidth":1},"geo":{"bgcolor":"white","landcolor":"#E5ECF6","subunitcolor":"white","showland":true,"showlakes":true,"lakecolor":"white"},"title":{"x":0.05},"mapbox":{"style":"light"}}},"annotations":[{"font":{"color":"#333333","size":14},"showarrow":false,"text":"bare","x":0,"xshift":28,"y":0,"yshift":12},{"arrowcolor":"#cc79a7","arrowhead":0,"arrowwidth":1,"ax":-38,"axref":"pixel","ay":-38,"ayref":"pixel","bgcolor":"rgba(255,255,255,0.9)","borderwidth":0,"font":{"color":"#cc79a7","size":14},"showarrow":true,"text":"PCA","x":4.089916666666666,"y":1.0305833333333332},{"arrowcolor":"#d55e00","arrowhead":0,"arrowwidth":1,"ax":-82,"axref":"pixel","ay":-82,"ayref":"pixel","bgcolor":"rgba(255,255,255,0.9)","borderwidth":0,"font":{"color":"#d55e00","size":14},"showarrow":true,"text":"mean difference","x":-1.4915,"y":0.7029166666666666},{"arrowcolor":"#0072b2","arrowhead":0,"arrowwidth":1,"ax":38,"axref":"pixel","ay":-38,"ayref":"pixel","bgcolor":"rgba(255,255,255,0.9)","borderwidth":0,"font":{"color":"#0072b2","size":14},"showarrow":true,"text":"VJP-delta","x":2.98775,"y":0.24483333333333332},{"align":"center","font":{"color":"#666666","size":13},"showarrow":false,"text":"null zone of\u003cbr\u003erandom directions","x":1.8,"y":0.55},{"font":{"color":"#287a4d","size":12},"showarrow":false,"text":"clean steer -\u003e abrasive","x":0,"xanchor":"left","xref":"paper","y":1,"yref":"paper"},{"font":{"color":"#287a4d","size":12},"showarrow":false,"text":"clean steer -\u003e sycophantic","x":1,"xanchor":"right","xref":"paper","y":1,"yref":"paper"},{"font":{"color":"#777777","size":12},"showarrow":false,"text":"mostly side effects","x":0.5,"xref":"paper","y":0,"yref":"paper","yshift":46},{"font":{"color":"#777777","size":12},"showarrow":false,"text":"x = last coherent measured dose; later doses rejected","x":0.5,"xref":"paper","y":0,"yref":"paper","yshift":21}],"title":{"text":"VJP steering on Bullshit Bench v2","x":0.5,"xanchor":"center"},"margin":{"l":90,"r":15,"t":45,"b":70},"font":{"color":"#111"},"xaxis":{"title":{"text":"judge on-axis change"},"range":[-4.7198979,4.7198979],"showline":true,"linecolor":"#333333","gridcolor":"#e5e5e5","zeroline":false},"yaxis":{"title":{"text":"off-axis damage (lower is better)"},"range":[1.2933000000000001,-0.07],"showline":true,"linecolor":"#333333","gridcolor":"#e5e5e5","zeroline":false},"width":1064,"height":658,"plot_bgcolor":"white","paper_bgcolor":"white","showlegend":false},                        {"responsive": true}                    )                };            </script>        </div><table><thead><tr><th>method</th><th>steer dir</th><th>seeds</th><th>arms</th><th>rejected</th><th>peak on-axis</th><th>damage at peak</th></tr></thead><tbody><tr><td>vjp_delta</td><td>-C</td><td>3</td><td>18</td><td>10</td><td>-1.849</td><td>0.477</td></tr><tr><td>vjp_delta</td><td>+C</td><td>3</td><td>19</td><td>0</td><td>+2.988</td><td>0.245</td></tr><tr><td>mean_diff</td><td>-C</td><td>3</td><td>29</td><td>15</td><td>-1.492</td><td>0.703</td></tr><tr><td>mean_diff</td><td>+C</td><td>3</td><td>31</td><td>9</td><td>+4.370</td><td>0.695</td></tr><tr><td>pca</td><td>-C</td><td>3</td><td>29</td><td>24</td><td>-1.227</td><td>0.963</td></tr><tr><td>pca</td><td>+C</td><td>3</td><td>32</td><td>15</td><td>+4.090</td><td>1.031</td></tr><tr><td>random</td><td>-C</td><td>10</td><td>30</td><td>4</td><td>+4.075</td><td>0.724</td></tr><tr><td>random</td><td>+C</td><td>10</td><td>30</td><td>1</td><td>+3.851</td><td>0.470</td></tr></tbody></table>

diff --git a/src/vjp_steering/results.py b/src/vjp_steering/results.py
@@ -177,18 +177,6 @@ def plot(rows: list[dict]) -> go.Figure:
         line={"color": "rgba(150,150,150,0)", "width": 0}, line_shape="spline", line_smoothing=0.8,
         hoverinfo="skip", showlegend=False,
     ))
-    random_median = [(0.0, 0.0), *((point[0], point[1]) for point in cone)]
-    for start, end in zip(random_median, random_median[1:]):
-        obstacles.extend(
-            (start[0] + fraction * (end[0] - start[0]), start[1] + fraction * (end[1] - start[1]))
-            for fraction in (0.25, 0.5, 0.75, 1.0)
-        )
-    figure.add_trace(go.Scatter(
-        x=[point[0] for point in random_median], y=[point[1] for point in random_median], mode="lines",
-        line={"color": "#999999", "width": 2}, line_shape="spline", line_smoothing=0.8,
-        hoverinfo="skip", showlegend=False,
-    ))
-
     colors = {"vjp_delta": "#0072b2", "mean_diff": "#d55e00", "pca": "#cc79a7"}
     for method in METHODS[:-1]:
         method_rows = [row for row in means if row["method"] == method]
@@ -239,18 +227,21 @@ def plot(rows: list[dict]) -> go.Figure:
     vjp_delta_label = max((row for row in means if row["method"] == "vjp_delta"), key=lambda row: row["effect"])
     labels = [
         {"text": "PCA", "anchor": (pca_label["effect"], pca_label["off_axis_perturbation"]), "color": colors["pca"], "preferred_direction": (-1, -1)},
-        {"text": LABELS["mean_diff"], "anchor": (mean_diff_label["effect"], mean_diff_label["off_axis_perturbation"]), "color": colors["mean_diff"], "preferred_direction": (-1, -1)},
-        {"text": LABELS["vjp_delta"], "anchor": (vjp_delta_label["effect"], vjp_delta_label["off_axis_perturbation"]), "color": colors["vjp_delta"], "preferred_direction": (1, -1)},
-        {"text": "null zone: random directions", "anchor": random_median[-1], "color": "#777777", "preferred_direction": (-1, 1)},
+        {"text": "mean difference", "anchor": (mean_diff_label["effect"], mean_diff_label["off_axis_perturbation"]), "color": colors["mean_diff"], "preferred_direction": (-1, -1)},
+        {"text": "VJP-delta", "anchor": (vjp_delta_label["effect"], vjp_delta_label["off_axis_perturbation"]), "color": colors["vjp_delta"], "preferred_direction": (1, -1)},
     ]
     for label in _place_direct_labels(labels, obstacles, (-x_limit, x_limit), y_range, plot_width, plot_height):
         figure.add_annotation(
             x=label["anchor"][0], y=label["anchor"][1], text=label["text"],
             showarrow=True, arrowhead=0, arrowwidth=1, arrowcolor=label["color"],
             ax=label["xshift"], ay=label["yshift"], axref="pixel", ayref="pixel",
-            bgcolor="rgba(255,255,255,0.9)", bordercolor=label["color"], borderwidth=1,
+            bgcolor="rgba(255,255,255,0.9)", borderwidth=0,
             font={"color": label["color"], "size": 14},
         )
+    figure.add_annotation(
+        x=1.8, y=0.55, text="null zone of<br>random directions", showarrow=False,
+        align="center", font={"color": "#666666", "size": 13},
+    )
     figure.add_annotation(x=0, y=1, xref="paper", yref="paper", text="clean steer -> abrasive", showarrow=False, xanchor="left", font={"color": "#287a4d", "size": 12})
     figure.add_annotation(x=1, y=1, xref="paper", yref="paper", text="clean steer -> sycophantic", showarrow=False, xanchor="right", font={"color": "#287a4d", "size": 12})
     figure.add_annotation(x=0.5, y=0, xref="paper", yref="paper", text="mostly side effects", showarrow=False, yshift=46, font={"color": "#777777", "size": 12})
